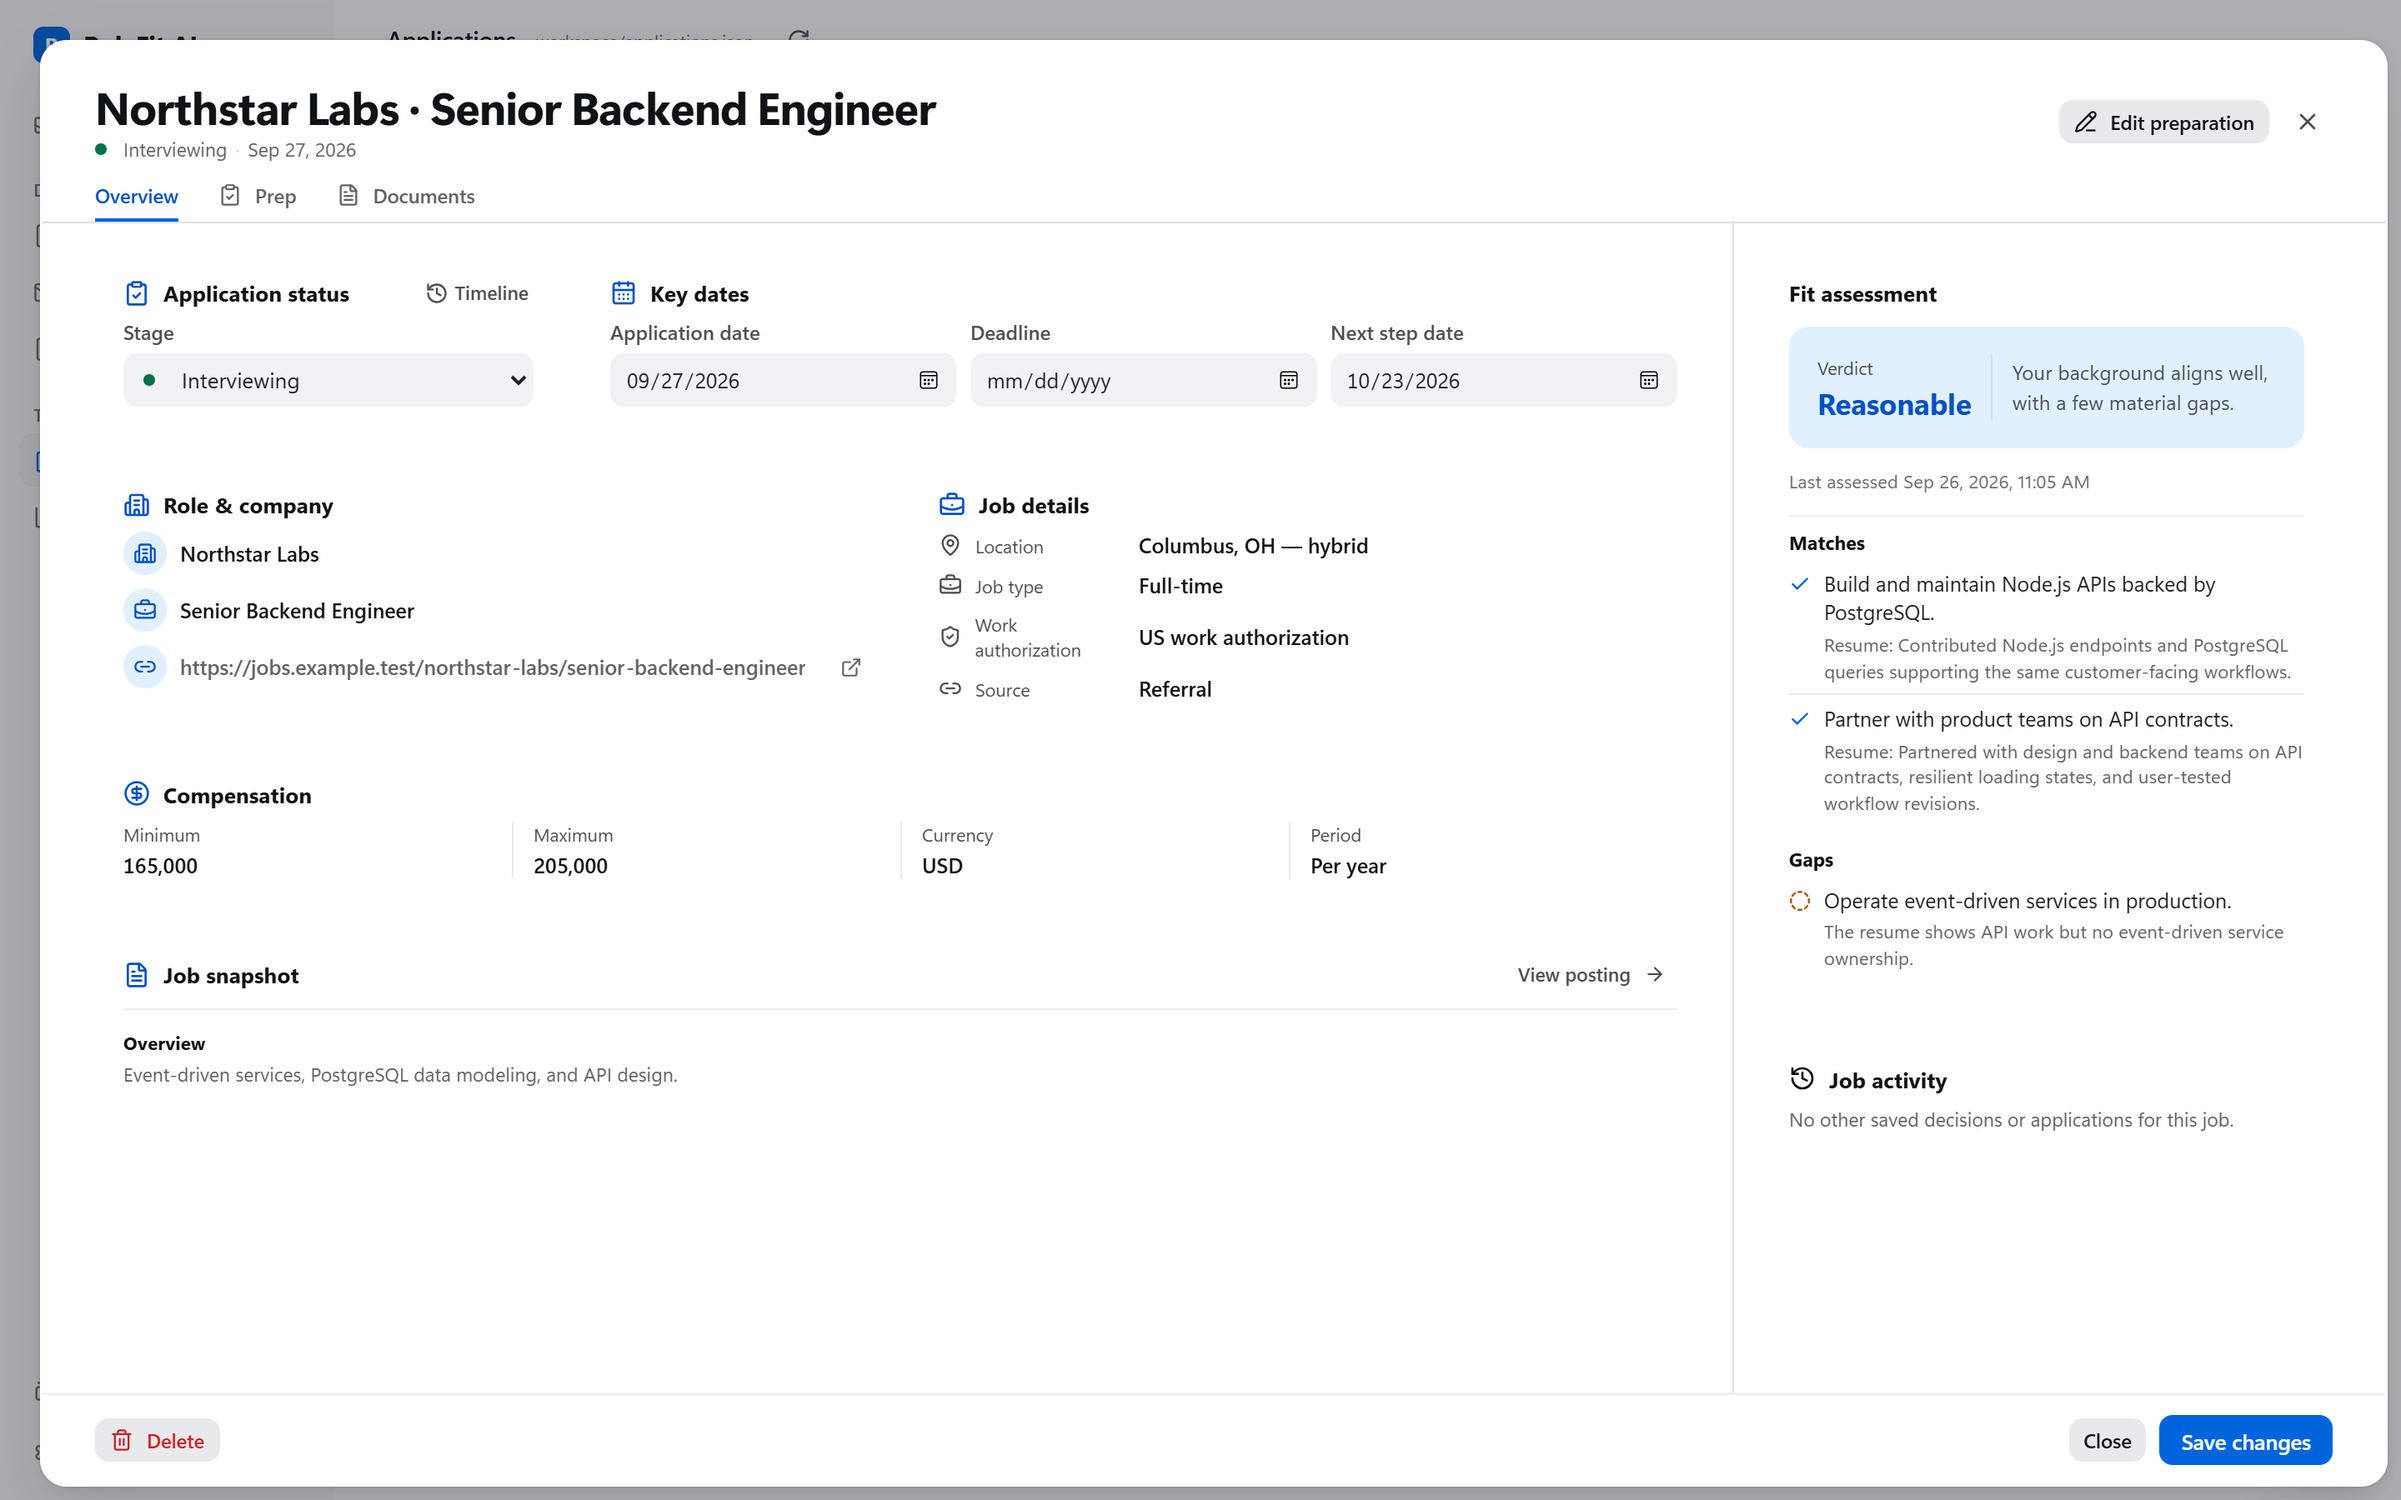
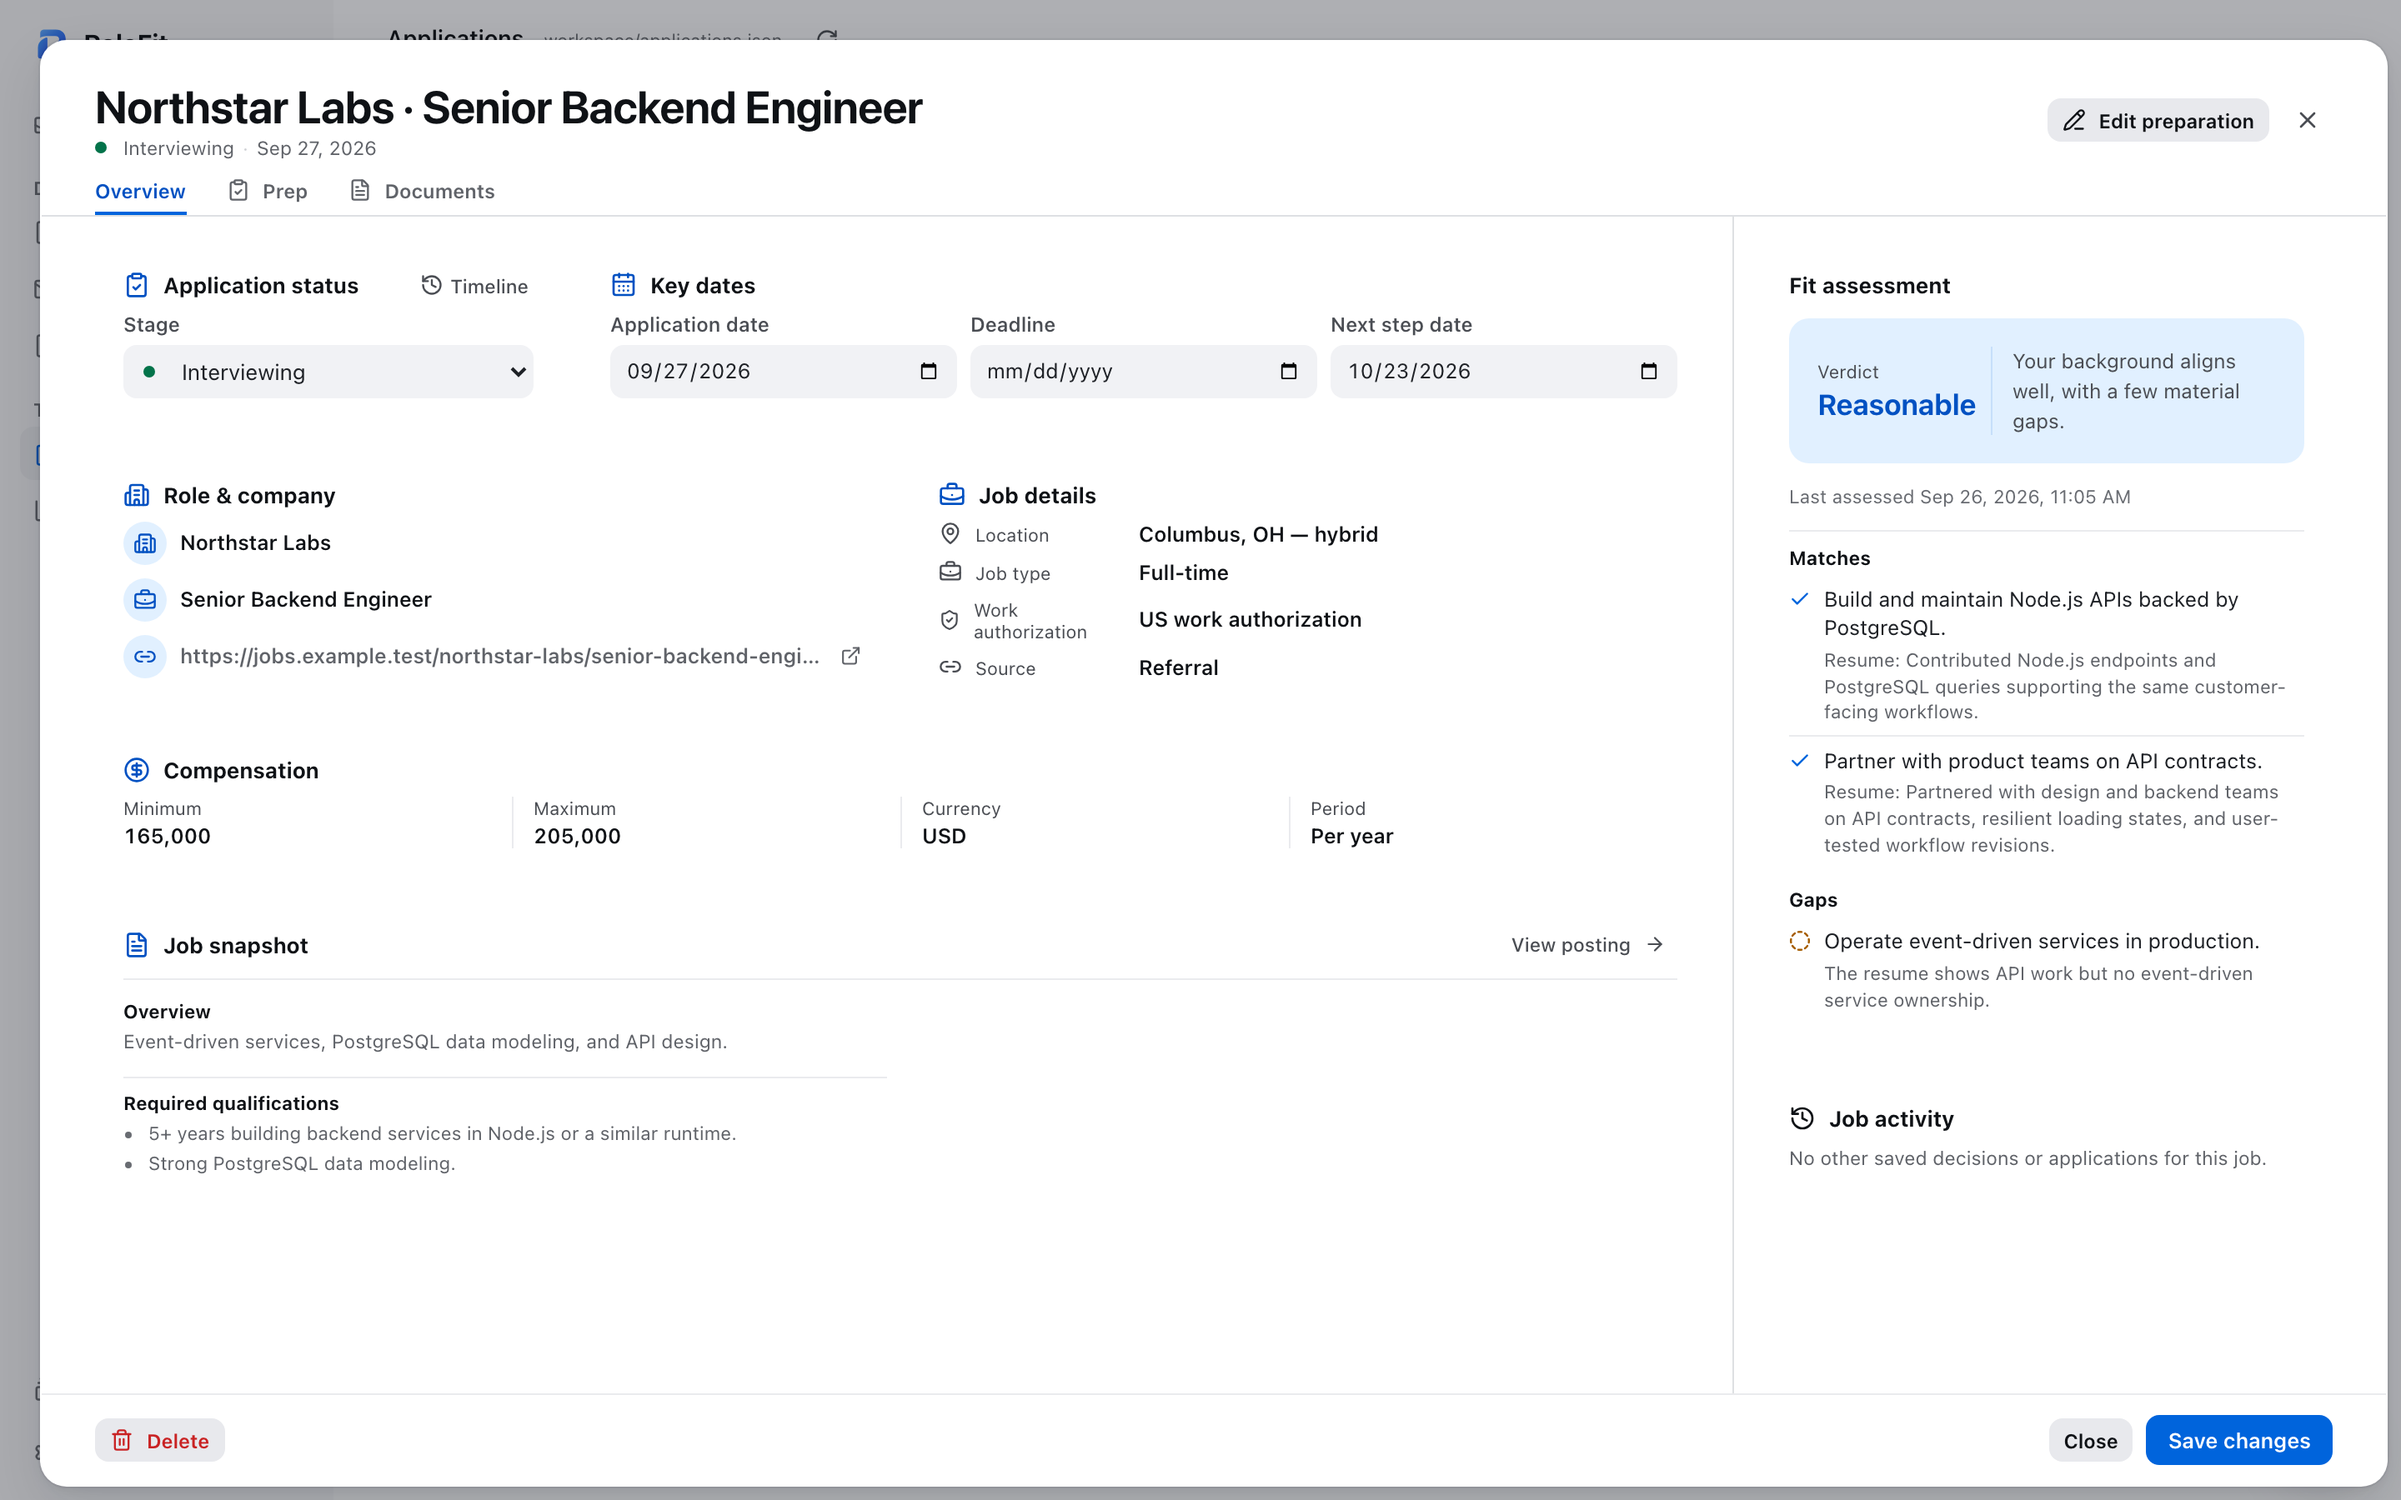
fix(rolefit): finish brand follow-ups from the #272 review
- Add an Edge chip (neutral globe icon) to the landing's supported-browser
  list, which named Edge in its copy but not in the chips.
- Delete the unused, pre-rename desktop-app.png from the landing assets.
- Retake the README tracker screenshots (row menu, calendar, detail modal)
  from the synthetic workspace with the new RoleFit branding.
- Record the next release's extension obligations in CONTINUITY: reload once
  for the PNG icons, and bump the manifest, EXTENSION_VERSION, and notes
  heading together. Mark the PNG icon step done in the distribution plan.

diff --git a/apps/role-fit-ai/landing/index.html b/apps/role-fit-ai/landing/index.html
@@ -237,6 +237,7 @@
           <ul class="browser-list" aria-label="Supported browsers">
             <li><img src="/assets/browsers/chrome.png" alt="" width="96" height="96" />Chrome</li>
             <li><img src="/assets/browsers/firefox.png" alt="" width="96" height="96" />Firefox</li>
+            <li><svg class="browser-list__generic" viewBox="0 0 48 48" aria-hidden="true"><g stroke="currentColor" stroke-width="3" stroke-linecap="round" stroke-linejoin="round" fill="none"><circle cx="24" cy="24" r="17"/><path d="M7 24h34M24 7c5 5 7.5 10.7 7.5 17S29 36 24 41c-5-5-7.5-10.7-7.5-17S19 12 24 7Z"/></g></svg>Edge</li>
           </ul>
         </div>
 

diff --git a/apps/role-fit-ai/landing/src/landing.css b/apps/role-fit-ai/landing/src/landing.css
@@ -870,6 +870,14 @@ h2 {
   height: 22px;
 }
 
+/* Edge gets a neutral globe, not its logo: only installed browsers' own icons
+   were available to cut, and a redrawn logo would misuse the mark. */
+.browser-list__generic {
+  width: 22px;
+  height: 22px;
+  color: var(--accent);
+}
+
 .import-flow {
   margin: 0;
 }

diff --git a/CONTINUITY.md b/CONTINUITY.md
@@ -44,15 +44,17 @@ D-entries in `docs/decisions.md`.
   (it shares the same data and, launched from the Dock, would run the old
   build); Windows updates in place but leaves a stale `RoleFit AI` shortcut
   beside the new `RoleFit` one; download file names drop "AI"; the extension
-  keeps its pairing. Its notes heading becomes `# RoleFit X.Y.Z:`, so update
-  the frozen heading assertion in `scripts/desktop-release-contract.test.mjs`
-  with that version bump. No published release (all `RoleFit-AI-*`) parses in
-  the new landing catalog, so tag a preview soon after merge. The four
+  keeps its pairing but must be reloaded once to pick up the new PNG toolbar
+  icons and its bumped version. Bump `extension/manifest.json` past 1.5.1 and,
+  in `scripts/desktop-release-contract.test.mjs`, `EXTENSION_VERSION` and the
+  frozen notes heading (now `# RoleFit X.Y.Z:`) together in that release. No
+  published release (all `RoleFit-AI-*`) parses in the new landing catalog,
+  so tag a preview soon after merge. The four
   product screenshots (landing and README twins) were retaken 2026-10-24 from
   a freshly seeded synthetic workspace (Alex Morgan / LumenDesk, built through
-  the app's own codecs and tracker sanitizer, served on 5183); the companion
-  shot `desktop-app.png` was not retaken and is no longer used on the page. An
-  installed-upgrade check (0.21.0 with a saved API key, then this build) is
+  the app's own codecs and tracker sanitizer, served on 5183), plus the three
+  README tracker shots on 2026-10-24; the unused `desktop-app.png` is deleted.
+  An installed-upgrade check (0.21.0 with a saved API key, then this build) is
   still unrun.
 
 ## Deferred backlog

diff --git a/apps/role-fit-ai/docs/engineering/distribution-cloud-plan.md b/apps/role-fit-ai/docs/engineering/distribution-cloud-plan.md
@@ -200,13 +200,11 @@ give automatic updates.
     128–139 (Add-on Policies 6.2.2).
   - **Firefox id.** Keep the stable `gecko.id` (`role-fit-ai@localhost`).
     Whether AMO accepts an `@localhost` id is unconfirmed.
-  - **Icons.** Chrome and Edge do not support SVG manifest icons, so Chromium
-    store builds need PNG icons (at least 128×128). The same rule probably means
-    unpacked Chrome and Edge already show a fallback toolbar icon today
-    (unverified). Generate the PNGs from `desktop/assets/generate_icons.py`,
-    which owns the brand mark; point `icons` and `action.default_icon` at them;
-    add them to `EXTENSION_FILES`; and add them to DESIGN.md's brand-mark list.
-    Firefox accepts the existing SVG.
+  - **Icons.** Done (D097): Chrome and Edge do not support SVG manifest icons,
+    so the extension now ships 16, 32, 48, and 128 px PNGs generated by
+    `desktop/assets/generate_icons.py`, listed in `EXTENSION_FILES`, and used by
+    both `icons` and `action.default_icon`. The 128 px icon meets the Chromium
+    store minimum.
   - **Validator compatibility.** Confirm that the store validators accept the
     dual `background.service_worker` and `background.scripts` keys.
 - **Packaging.** Zip the `EXTENSION_FILES` allowlist in
